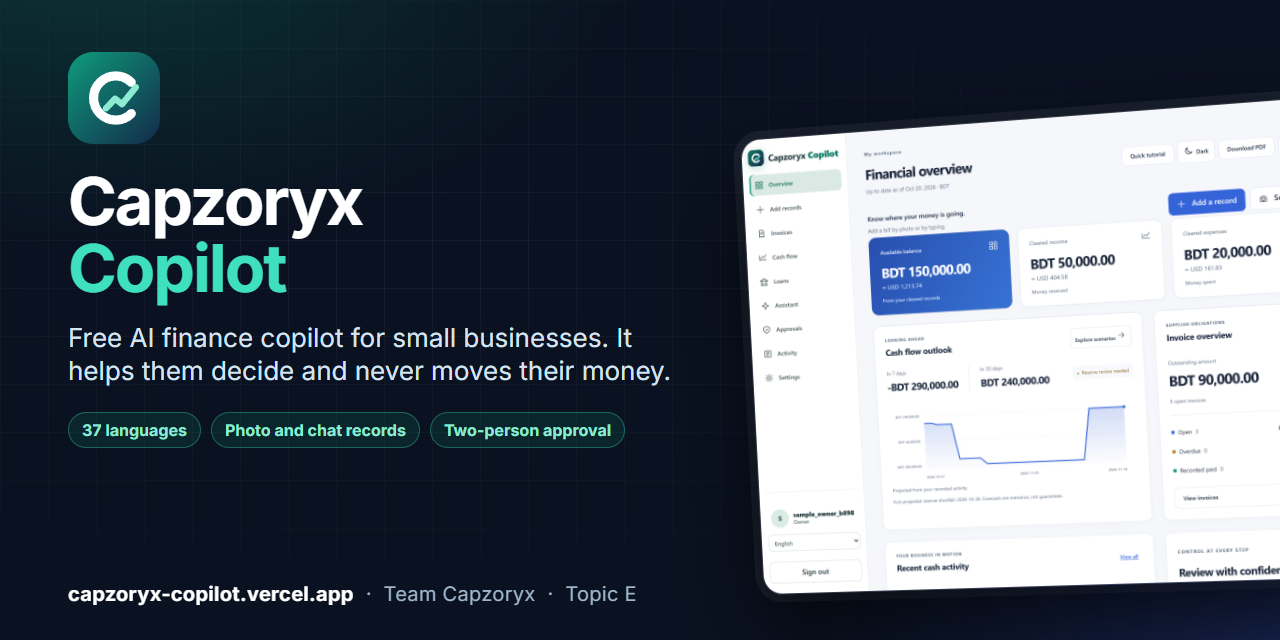
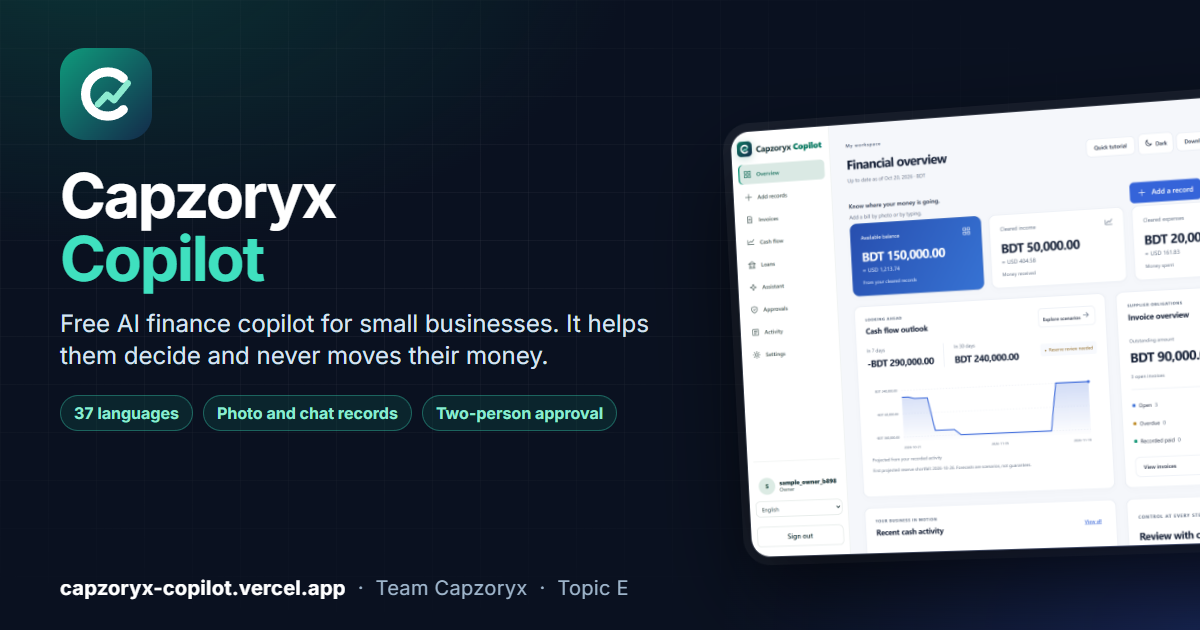
Add link-preview and search tags, robots.txt and a sitemap; 1200x630 share image

diff --git a/web/index.html b/web/index.html
@@ -1,1 +1,1 @@
-<!doctype html><html lang="en"><head><meta charset="UTF-8"><meta name="viewport" content="width=device-width, initial-scale=1.0"><script src="/boot.js"></script><link rel="icon" type="image/svg+xml" href="/favicon.svg"><meta name="theme-color" content="#132a4a"><meta name="description" content="Capzoryx Copilot helps small businesses see their cash, bills and loan choices clearly."><title>Capzoryx Copilot</title></head><body><div id="splash" aria-hidden="true"><svg viewBox="0 0 40 40" width="96" height="96"><defs><linearGradient id="sg" x1="0" y1="0" x2="1" y2="1"><stop offset="0" stop-color="#0f9b7c"/><stop offset="1" stop-color="#132a4a"/></linearGradient></defs><rect width="40" height="40" rx="11" fill="url(#sg)"/><path d="M27.5 13.2A9.6 9.6 0 1 0 27.5 26.8" fill="none" stroke="#fff" stroke-width="4" stroke-linecap="round"/><path class="splash-rise" d="M16.5 24.5l4-4.2 3 2.4 6-7.4" fill="none" stroke="#8cebd0" stroke-width="2.8" stroke-linecap="round" stroke-linejoin="round"/></svg><span class="splash-name">Capzoryx <b>Copilot</b></span></div><div id="root"></div><script type="module" src="/src/main.tsx"></script></body></html>
+<!doctype html><html lang="en"><head><meta charset="UTF-8"><meta name="viewport" content="width=device-width, initial-scale=1.0"><script src="/boot.js"></script><link rel="icon" type="image/svg+xml" href="/favicon.svg"><meta name="theme-color" content="#132a4a"><meta name="description" content="Free, multilingual finance copilot for small businesses: cash outlook, loan comparison, photo and chat records, and two-person payment approval. It never moves your money."><link rel="canonical" href="https://capzoryx-copilot.vercel.app/"><meta property="og:type" content="website"><meta property="og:site_name" content="Capzoryx Copilot"><meta property="og:title" content="Capzoryx Copilot: free AI finance copilot for small businesses"><meta property="og:description" content="Free, multilingual finance copilot for small businesses: cash outlook, loan comparison, photo and chat records, and two-person payment approval. It never moves your money."><meta property="og:url" content="https://capzoryx-copilot.vercel.app/"><meta property="og:image" content="https://capzoryx-copilot.vercel.app/og-image.png?v=2"><meta property="og:image:type" content="image/png"><meta property="og:image:width" content="1200"><meta property="og:image:height" content="630"><meta property="og:image:alt" content="Capzoryx Copilot overview with cash outlook, loans and approvals"><meta name="twitter:card" content="summary_large_image"><meta name="twitter:title" content="Capzoryx Copilot: free AI finance copilot for small businesses"><meta name="twitter:description" content="Free, multilingual finance copilot for small businesses: cash outlook, loan comparison, photo and chat records, and two-person payment approval. It never moves your money."><meta name="twitter:image" content="https://capzoryx-copilot.vercel.app/og-image.png?v=2"><title>Capzoryx Copilot: free AI finance copilot for small businesses</title></head><body><div id="splash" aria-hidden="true"><svg viewBox="0 0 40 40" width="96" height="96"><defs><linearGradient id="sg" x1="0" y1="0" x2="1" y2="1"><stop offset="0" stop-color="#0f9b7c"/><stop offset="1" stop-color="#132a4a"/></linearGradient></defs><rect width="40" height="40" rx="11" fill="url(#sg)"/><path d="M27.5 13.2A9.6 9.6 0 1 0 27.5 26.8" fill="none" stroke="#fff" stroke-width="4" stroke-linecap="round"/><path class="splash-rise" d="M16.5 24.5l4-4.2 3 2.4 6-7.4" fill="none" stroke="#8cebd0" stroke-width="2.8" stroke-linecap="round" stroke-linejoin="round"/></svg><span class="splash-name">Capzoryx <b>Copilot</b></span></div><div id="root"></div><script type="module" src="/src/main.tsx"></script></body></html>

diff --git a/submission/social_preview_build/build_social_preview.py b/submission/social_preview_build/build_social_preview.py
@@ -49,9 +49,15 @@ with sync_playwright() as p:
     pg = b.new_page(viewport={'width': 1280, 'height': 640})
     pg.goto(tmp.as_uri())
     pg.wait_for_timeout(800)
-    for out in OUTS:
-        out.parent.mkdir(parents=True, exist_ok=True)
-        pg.screenshot(path=str(out), clip={'x': 0, 'y': 0, 'width': 1280, 'height': 640})
-        print('wrote', out, round(out.stat().st_size / 1024), 'KB')
+    github = OUTS[1]
+    pg.screenshot(path=str(github), clip={'x': 0, 'y': 0, 'width': 1280, 'height': 640})
+    print('wrote', github, round(github.stat().st_size / 1024), 'KB')
+    # The link-preview version for the website: 1200x630 (1.91:1), which WhatsApp, Facebook, LinkedIn and X show as a large card.
+    pg.set_viewport_size({'width': 1200, 'height': 630})
+    pg.add_style_tag(content='body{width:1200px;height:630px}.left{left:60px;top:48px;width:600px}.name{font-size:62px}.tag{font-size:24px}.shot{right:-90px;top:112px;width:560px}.url{left:60px;bottom:30px}')
+    pg.wait_for_timeout(300)
+    site = OUTS[0]
+    pg.screenshot(path=str(site), clip={'x': 0, 'y': 0, 'width': 1200, 'height': 630})
+    print('wrote', site, round(site.stat().st_size / 1024), 'KB')
     b.close()
 tmp.unlink()
